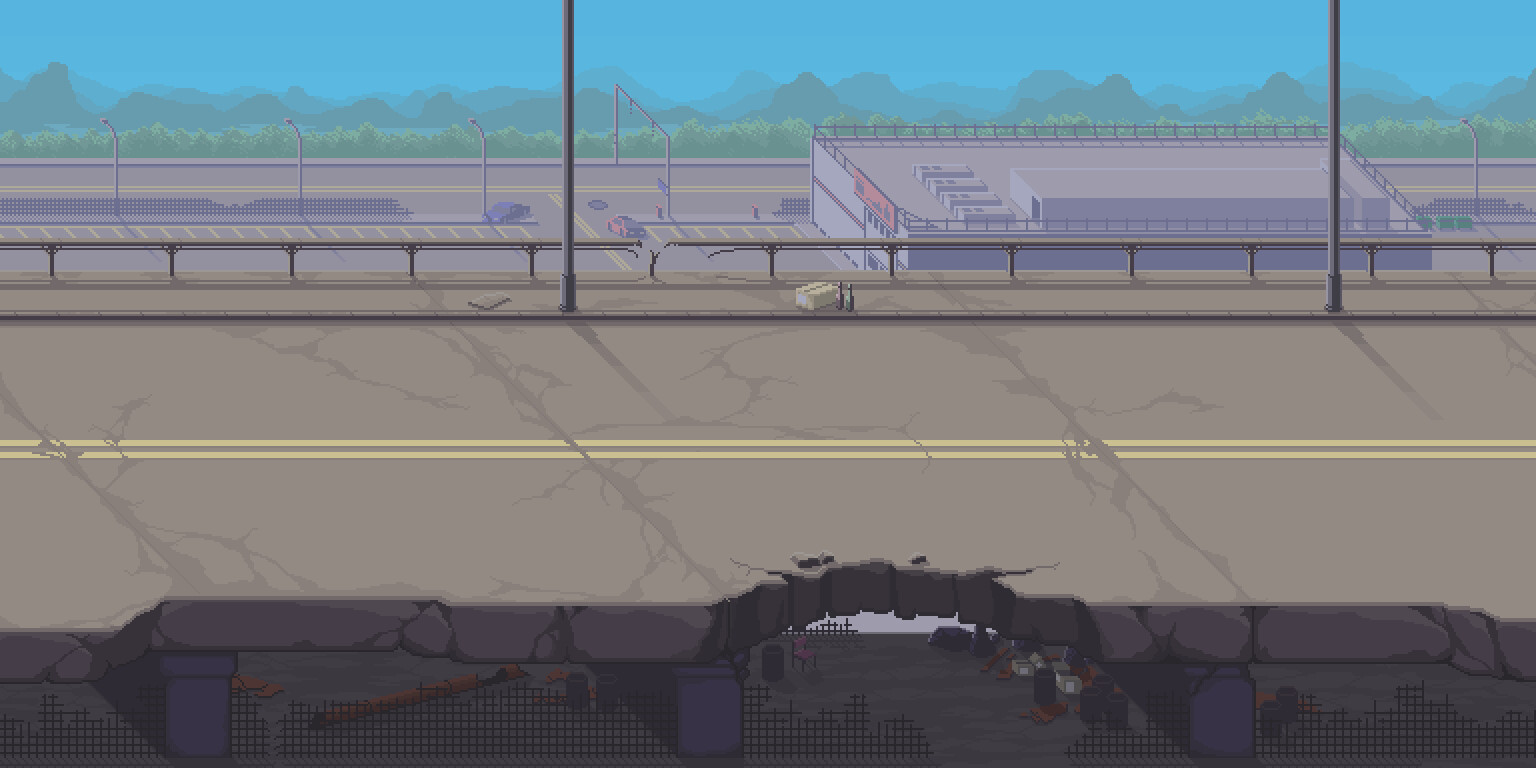
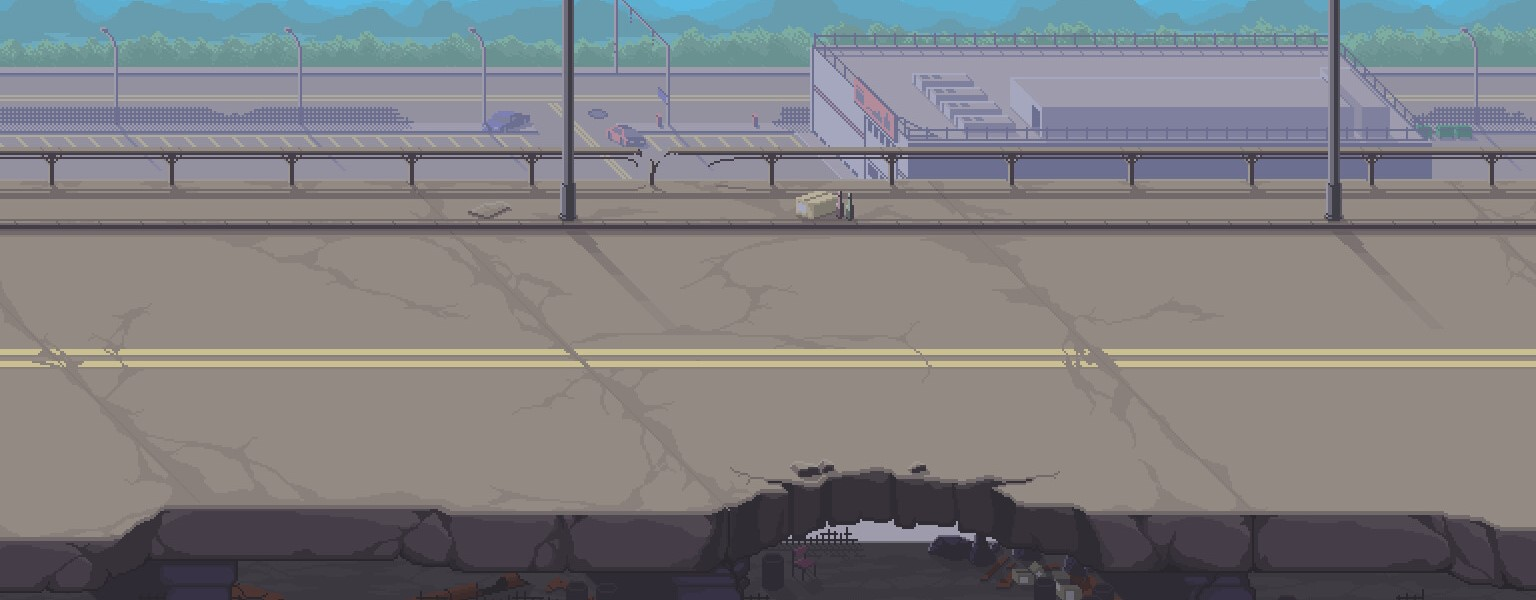
mapa, movimiento de los obstaculos para que sigan el mapa

diff --git a/js/main.js b/js/main.js
@@ -3,6 +3,20 @@
 /* -------------------------------------------------------------------------- */
 
 /* -------------------------------------------------------------------------- */
+/*                                    MAPA                                    */
+/* -------------------------------------------------------------------------- */
+
+class MapaJuego{
+    constructor() {
+        this.nodo = document.querySelector('#fondo');
+        this.x = 0;
+        this.y = 0;
+        this.ancho = 1980;
+        this.alto = 600;
+    }
+}
+
+/* -------------------------------------------------------------------------- */
 /*                                   JUGADOR                                  */
 /* -------------------------------------------------------------------------- */
 
@@ -37,6 +51,7 @@ class Enemy{
         this.speed = speed;
         this.angulo = 0;
         this.vivo = true;
+        this.anguloObjeto = 0;
     }
 
     dibujar(){
@@ -68,8 +83,13 @@ class Enemy{
         this.y -= this.speed * Math.sin(this.angulo);
     }
 
-    getAnguloEntrePuntos(playerX, playerY){
-        this.angulo = Math.atan2(this.y-playerY, this.x-playerX);
+    salirObjeto(){
+        this.x += this.speed * Math.cos(this.angulo);
+        this.y += this.speed * Math.sin(this.angulo);
+    }
+
+    getAnguloEntrePuntos(objet){
+        this.angulo = Math.atan2(this.y-objet.y, this.x-objet.x);
     }
 }
 
@@ -109,8 +129,15 @@ class Obstaculo{
     }
 
     cambiarPosicion(){
-        this.x = Math.round(getRandomArbitrary(400, 1170));
-        this.y = Math.round(getRandomArbitrary(140, 380));
+        this.x = Math.round(getRandomArbitrary(300, 1980));
+        this.y = Math.round(getRandomArbitrary(110, 420));
+    }
+
+    moverConMapaDerecha({speed}){
+        this.x += speed;
+    }
+    moverConMapaIzquierda({speed}){ 
+        this.x -= speed;
     }
 }
 
@@ -179,18 +206,28 @@ class Proyectil{
 function movimiento(event) {
     jugador.x= capturarX();
     jugador.y= capturarY();
-    
+    console.log(jugador.x, jugador.y);
 
     arrayObstacle.forEach((el)=> {
         noTraspasar(el);
     });
 
+    nuevosEnemigos();
+
+
     arrayEnemigos.forEach((enemigo)=> {
-        enemigo.getAnguloEntrePuntos(jugador.x,jugador.y);
-        enemigo.moverse();
-        enemigo.actualizarPosicion();
-        if(estaDentro(enemigo)){
-            console.log("enemigo adentro");
+        if (enemigo.vivo == true){
+            enemigo.getAnguloEntrePuntos(jugador);
+            enemigo.moverse();
+            enemigo.actualizarPosicion();
+            for(const obst of arrayObstacle){
+                if(choqueObjtos(enemigo, obst)){
+                    console.log("se tocan");
+                    enemigo.getAnguloEntrePuntos(obst);
+                    enemigo.salirObjeto();
+                    enemigo.actualizarPosicion();
+                }
+            }
         }
     });
 
@@ -203,9 +240,11 @@ function movimiento(event) {
     }
     if(event.key == 'a' && noAvanzarIzquierda(jugador.x)){
         moverIzquierda();
+        moverMapaIzquierda();
     }
     if(event.key == 'd' && noAvanzarDerecha(jugador.x)){
         moverDerecha();
+        moverMapaDerecha();
     }
 
     /* tiro */
@@ -214,9 +253,7 @@ function movimiento(event) {
         let balay = capturarY() + parseInt(jugador.alto)/2;
         const bullet = new Proyectil(cantDisparos, balax, balay, jugador.angulo);
         cantDisparos++;
-        const cartel = document.querySelector('.cartel h2');
-        cartel.innerText = "Disparos: "+ cantDisparos + "";
-
+        
         bullet.dibujar();
         bullet.actualizarPosicion();
         arrayDisparos.push(bullet);
@@ -237,7 +274,14 @@ function movimiento(event) {
                         tiro.vivo = false;
                         enemigo.eliminar();
                         enemigo.vivo = false;
-                        console.log("mate un zombie");
+                        
+                        const h2 = document.querySelector('#talk-pj');
+                        h2.innerText = "mate un zombie";
+
+                        kills++;
+                        const cartel = document.querySelector('.cartel h2');
+                        cartel.innerText = "kills: "+ kills + "";
+                        
                     }
                 }
             }
@@ -287,27 +331,52 @@ function capturarY(){
 function moverArriba(){
     const h2 = document.querySelector('#talk-pj');
     h2.innerText = "w";
-    jugador.nodo.style.top = jugador.y - 10 + "px";
+    jugador.nodo.style.top = jugador.y - jugador.speed + "px";
     jugador.cambiarAngulo((pi/2));
 }
 function moverAbajo(){
     const h2 = document.querySelector('#talk-pj');
     h2.innerText = "s";
-    jugador.nodo.style.top = jugador.y + 10 + "px";
+    jugador.nodo.style.top = jugador.y + jugador.speed + "px";
     jugador.cambiarAngulo((3*pi/2));
 
 }
 function moverDerecha(){
     const h2 = document.querySelector('#talk-pj');
     h2.innerText = "d";
-    jugador.nodo.style.left = jugador.x + 10 + "px";
+    jugador.nodo.style.left = jugador.x + jugador.speed + "px";
     jugador.cambiarAngulo(0);
 }
 function moverIzquierda(){
     const h2 = document.querySelector('#talk-pj');
     h2.innerText = "a";
-    jugador.nodo.style.left = jugador.x - 10 + "px";
+    jugador.nodo.style.left = jugador.x - jugador.speed + "px";
     jugador.cambiarAngulo(pi);
+}
+
+function moverMapaIzquierda(){
+    if(mapaDelJuego.x != 0){
+        console.log(mapaDelJuego.x);
+        mapaDelJuego.nodo.style.left = mapaDelJuego.x + jugador.speed + "px";
+        mapaDelJuego.x += jugador.speed;
+        arrayObstacle.forEach((obst)=>{
+            obst.moverConMapaDerecha(jugador)
+            obst.actualizarPosicion();
+        })
+    }
+}
+
+function moverMapaDerecha(){
+    if(mapaDelJuego.x != (-520)){
+        console.log(mapaDelJuego.x);
+        mapaDelJuego.nodo.style.left = mapaDelJuego.x - jugador.speed + "px";
+        mapaDelJuego.x -= jugador.speed;
+        arrayObstacle.forEach((obst)=>{
+            obst.moverConMapaIzquierda(jugador);
+            obst.actualizarPosicion();
+        })
+    }
+    
 }
 
 /* -------------------------------------------------------------------------- */
@@ -315,13 +384,13 @@ function moverIzquierda(){
 /* -------------------------------------------------------------------------- */
 
 function noAvanzarArriba(y){
-    if (y<=140){
+    if (y<=110){
         return false;
     }
     return true;
 }
 function noAvanzarAbajo(y){
-    if (y>=380){
+    if (y>=420){
         return false;
     }
     return true;
@@ -333,7 +402,7 @@ function noAvanzarIzquierda(x){
     return true;
 }
 function noAvanzarDerecha(x){
-    if (x>=1170){
+    if (x>=1960){
         return false;
     }
     return true;
@@ -353,7 +422,7 @@ function choqueObjtos(ob1, ob2){
 
 // SE ESCAPO DEL ENTORNO
 function escapoEntorno(obj){
-    return (obj.x < 0 || obj.x>1000 || obj.y < 0 || obj.y>600);
+    return (obj.x < 0 || obj.x>1980 || obj.y < 0 || obj.y>600);
 }
 
 
@@ -388,7 +457,7 @@ function getRandomArbitrary(min, max) {
 
 function cargarEnemigos(){
     for(let i=0; i<3; i++){
-        let enemigo = new Enemy(i, Math.round(getRandomArbitrary(300, 1170)), Math.round(getRandomArbitrary(140, 370)), 70, 80, 10);
+        let enemigo = new Enemy(i, Math.round(getRandomArbitrary(300, 1960)), Math.round(getRandomArbitrary(110, 420)), 70, 80, 10);
         arrayEnemigos.push(enemigo);
     }
 }
@@ -400,9 +469,18 @@ function dibujarEnemigos(){
     }
 }
 
+function nuevosEnemigos(){
+    if(arrayEnemigos.length < 2){
+        let nuevoEnemigo = new Enemy(kills, Math.round(getRandomArbitrary((jugador.x + 400), jugador.x + 1000)), Math.round(getRandomArbitrary(140, 370)), 70, 80, 10);
+        arrayEnemigos.push(nuevoEnemigo);
+        nuevoEnemigo.dibujar();
+        nuevoEnemigo.actualizarPosicion();
+    }
+}
+
 function cargarObstaculos(){
     for(let i=0; i<3; i++){
-        const obstaculo = new Obstaculo(i, Math.round(getRandomArbitrary(400, 1170)), Math.round(getRandomArbitrary(140, 400)), 250, 100);
+        const obstaculo = new Obstaculo(i, Math.round(getRandomArbitrary(400, 1980)), Math.round(getRandomArbitrary(110, 420)), 250, 100);
         arrayObstacle.push(obstaculo);
     }
 }
@@ -419,7 +497,7 @@ function dibujarObstaculos(){
                         console.log("se tocan");
                         obstaculo.cambiarPosicion();
                         obstaculo.actualizarPosicion();
-                    }else{
+                    }else {
                         toca = false;
                     }
                 }
@@ -431,10 +509,14 @@ function dibujarObstaculos(){
 /* -------------------------------------------------------------------------- */
 /*                                  CREACION                                  */
 /* -------------------------------------------------------------------------- */
+
+/* MAPA */
+const mapaDelJuego = new MapaJuego();
+
 /* JUGADOR */
 const pi = Math.PI;
 let cantDisparos = 0;
-
+let kills =0;
 const jugador = new Player(40, 260 , 70, 80, 10);
 const juego = document.querySelector('#juego');
 
@@ -460,5 +542,7 @@ dibujarObstaculos();
 
 /* event listener */
 console.log(jugador);
+
 document.addEventListener("keydown", movimiento);
 
+/* setInterval(); */

diff --git a/css/style.css b/css/style.css
@@ -124,16 +124,21 @@ header nav ul li a:hover{
     width: 70px;
     height: 80px;
     top: 260px;
-    left: 50px;
-    background-color: blue;
+    left: 80px;
+    /* background-color: blue; */
 }
 #player img{
     width: 100%;
     height: 100%;
 }
 #player h2{
-    width: 100%;
+    width: auto;
+    padding: 10px;
     position: absolute;
+    border-radius: 5px;
+    background-color: rgba(128, 128, 128, 0.658);
+    left: 50px;
+    top: -20px;
     color: #fff;
     font-size: 15px;
     text-align: end;
@@ -142,7 +147,7 @@ header nav ul li a:hover{
 
 /* OBSTACULOS */
 .auto{
-    background-color: red;
+    /* background-color: red; */
     position: absolute;
     width: 250px;
     height: 100px;
@@ -153,7 +158,7 @@ header nav ul li a:hover{
 }
 
 #auto{
-    background-color: red;
+    /* background-color: red; */
     position: absolute;
     width: 250px;
     height: 100px;
@@ -167,7 +172,7 @@ header nav ul li a:hover{
     position: absolute;
     width: 70px;
     height: 80px;
-    background-color: grey;
+    /* background-color: grey; */
 }
 .enemy img{
     width: 100%;
@@ -178,7 +183,7 @@ header nav ul li a:hover{
     position: absolute;
     width: 70px;
     height: 80px;
-    background-color: grey;
+    /* background-color: grey; */
     top: 50%;
     left: 50%;
 }
@@ -190,7 +195,7 @@ header nav ul li a:hover{
     z-index: 20;
     width: 10px;
     height: 10px;
-    background-color: yellowgreen;
+    /* background-color: yellowgreen; */
     object-fit: cover;
 }
 .bala img{

diff --git a/index.html b/index.html
@@ -50,7 +50,7 @@
 
                 <!-- balas disparadas -->
                 <article class="cartel">
-                    <h2>Disparos:</h2>
+                    <h2>Kills:</h2>
                 </article>
 
                 <!-- personaje -->
